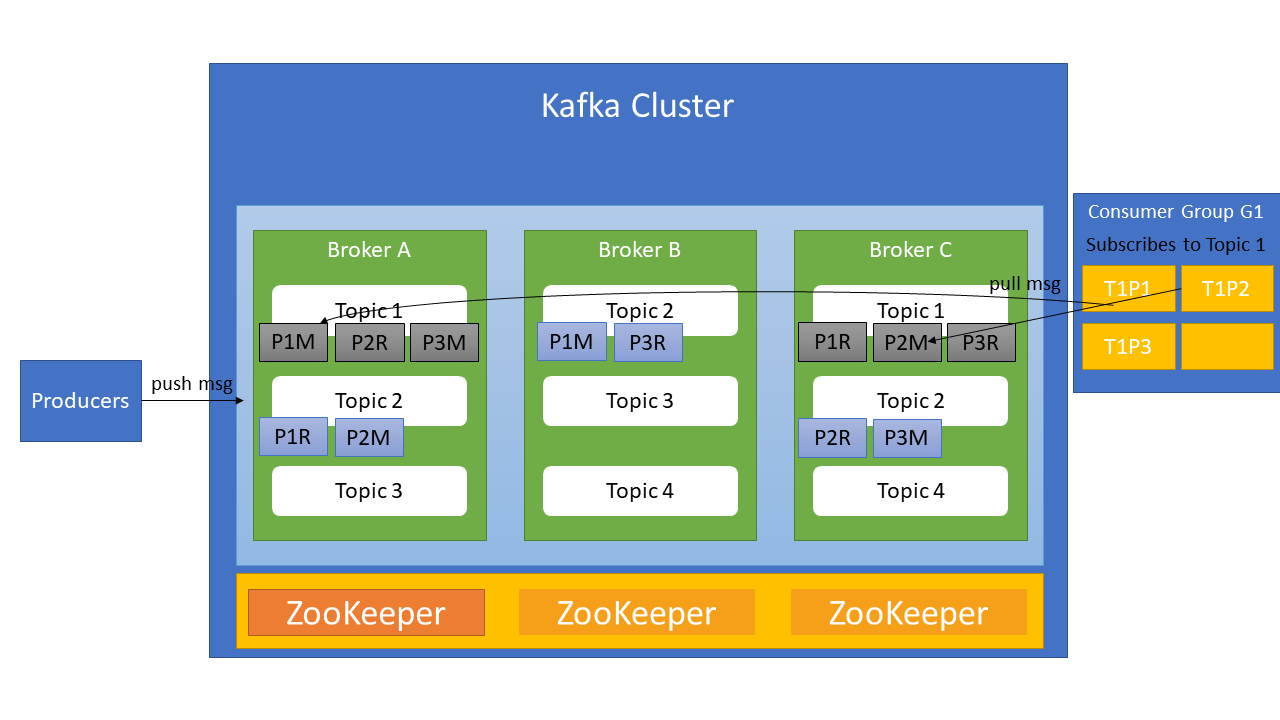
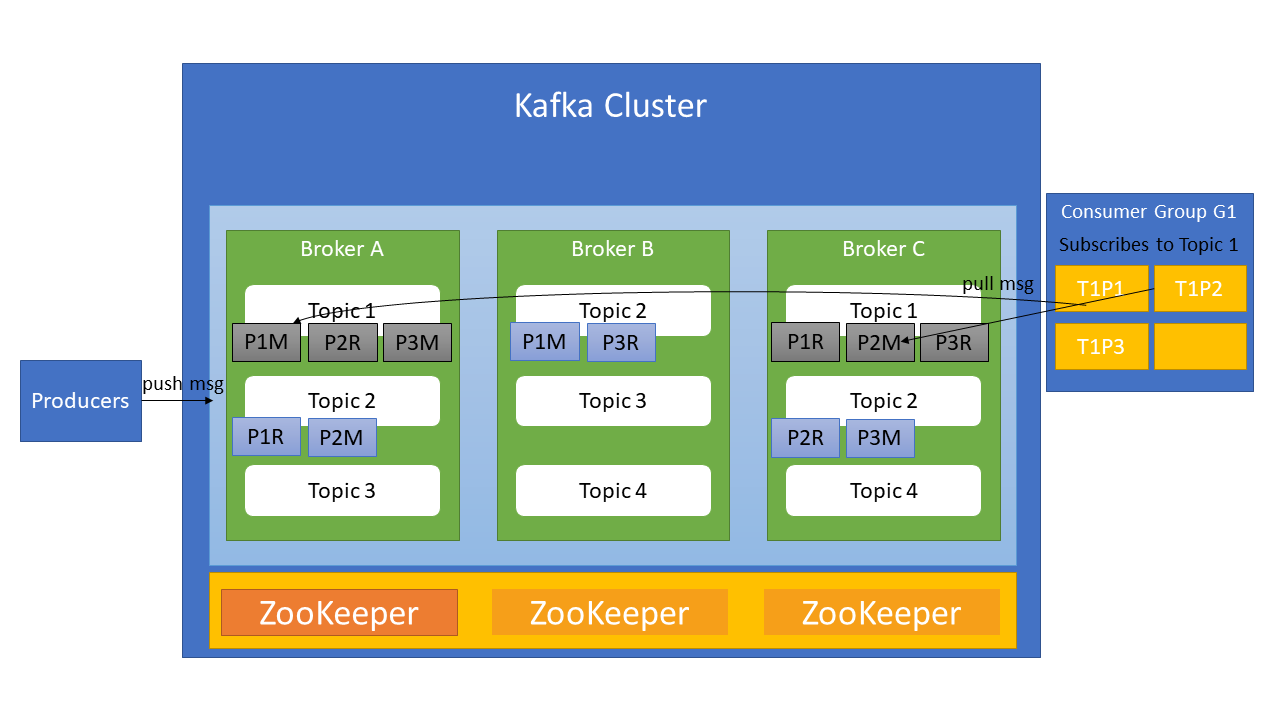
feature: update userdocs osb-kafka.md and kafka-cluster.png

diff --git a/service-docs/pages/osb-kafka.md b/service-docs/pages/osb-kafka.md
@@ -21,7 +21,7 @@
     - [Service Instance Zookeper Schema](#service-instance-zookeper-schema)
     - [Service Binding Settings Schema](#service-binding-settings-schema)
       - [topic_acls object](#topic_acls-object)
-      - [group_acls](#group_acls)
+      - [group_acls object](#group_acls-object)
       - [cluster_acls object](#cluster_acls-object)
   - [FAQ](#faq)
     - [OSB-Kafka crashed](#osb-kafka-crashed)
@@ -74,8 +74,6 @@ The following image shows, how a Kafka Cluster is managed:
 ![Kafka-Cluster](../assets/kafka-cluster.png)
 
 For the sake of simplicity, only topic 1 and 2 are looked at. Each topic consists of 3 partitions with 1 replication each (6 partitions per topic in total). Since the partitions of topic 1 (grey, "M"=master, "R"=replica) are spread across 2 brokers (broker A and broker B), each one stores 3 partitions. The partitions of topic 2 (light blue) are spread among 3 brokers, therefore each one stores 2 partitions. Master and replica partitions are distributed as evenly as possible. The consumer group G1 consists of 4 consumers. In case of no further configuration, each consumer of the group reads from a different partition, which means that the fourth consumer does not access any partition.
-
-?warum hatten manche topics roten rand? weg
 
 Further information about Kafka Clusters can be found [here](https://kafka.apache.org/documentation/).
 
@@ -287,22 +285,22 @@ The following settings are defined in the schema in service_plan.schemas.service
 
 | Parameter | Type | Default Value | Description |
 | - | - | - | - |
-| autopurge_purge_interval | number | 24(stunden?) | Autopurge interval. If a Zookeper object is given, this property is **required**. |
-| autopurge_snap_retain_count | number | 3 | Autopurge snap(shot?) retain count. If a Zookeper object is given, this property is **required**. |
-| cnx_timeout | number | 5(stunden?) | CNX timeout. If a Zookeper object is given, this property is **required**. |
-| election_algorim | number | 3 | Election algorithm (to avoid confusion: there is a typo in the property name)(wofür steht welche nummer?). If a Zookeper object is given, this property is **required**. |
-| force_sync | string | "yes" | Force synchronization. Valid values are "yes" and "no" (warum kein enum im schema? hinzgefügt). If a Zookeper object is given, this property is **required**. |
-| global_outstanding_limit | number | 1000 | Global outstanding limit (weiß der nutzer was damit gemeint ist? ich nicht). If a Zookeper object is given, this property is **required**. |
+| autopurge_purge_interval | number | 24 | Autopurge interval in hours. If a Zookeper object is given, this property is **required**. |
+| autopurge_snap_retain_count | number | 3 | Number of most recent snapshots to retain. If a Zookeper object is given, this property is **required**. |
+| cnx_timeout | number | 5 | Timeout in seconds for opening connections for leader election notifications. Only applicable if election_algorim = 3. If a Zookeper object is given, this property is **required**. |
+| election_algorim | number | 3 | Election implementation to use. A value of "0" corresponds to the original UDP-based version, "1" corresponds to the non-authenticated UDP-based version of fast leader election, "2" corresponds to the authenticated UDP-based version of fast leader election, and "3" corresponds to TCP-based version of fast leader election. **The implementations of leader election 0, 1 and 2 are deprecated and will be removed in future Zookeeper releases.**(jsonschema enum?). If a Zookeper object is given, this property is **required**. |
+| force_sync | string | "yes" | Force synchronization. Valid values are "yes" and "no" (checkbox?). If a Zookeper object is given, this property is **required**. |
+| global_outstanding_limit | number | 1000 | Limit of outstanding requests to the system. If a Zookeper object is given, this property is **required**. |
 | init_limit | number | 5 | Connection retries. If a Zookeper object is given, this property is **required**. |
-| leader_serves | string | "yes" | Client connections to leader. Valid values are "yes" and "no" (?enum ergänzt). If a Zookeper object is given, this property is **required**. |
+| leader_serves | string | "yes" | Client connections to leader. Valid values are "yes" and "no" (?checkbox). If a Zookeper object is given, this property is **required**. |
 | max_client_connections | number | 60 | Maximum number of client connections. If a Zookeper object is given, this property is **required**. |
 | max_session_timeout | number | 40000 | Maximum session timeout in ms. If a Zookeper object is given, this property is **required**. |
 | min_session_timeout | number | 4000 | Minimum session timeout in ms. If a Zookeper object is given, this property is **required**. |
-| pre_allocation_size | number | 65536 | Pre-allocation size for transaction log blocks (KB). If a Zookeper object is given, this property is **required**. |
-| snap_count | number | 100000 | Snap(shot?) count. If a Zookeper object is given, this property is **required**. |
+| pre_allocation_size | number | 65536 | Pre-allocation size for transaction log blocks in KB. If a Zookeper object is given, this property is **required**. |
+| snap_count | number | 100000 | Snapshot count. If a Zookeper object is given, this property is **required**. |
 | sync_enabled | boolean | true | Synchronization enabled. If a Zookeper object is given, this property is **required**. |
 | sync_limit | number | 2 | Synchronization limit. If a Zookeper object is given, this property is **required**. |
-| tick_time | number | 2000 | Single tick time (in ms?). If a Zookeper object is given, this property is **required**. |
+| tick_time | number | 2000 | Single tick time in ms. If a Zookeper object is given, this property is **required**. |
 | warning_threshold_ms | number | 1000 | Warning threshold in ms. If a Zookeper object is given, this property is **required**.  | 
 
 ### Service Binding Settings Schema
@@ -343,33 +341,34 @@ An extended example of the parameters for a create request for a service binding
 | Parameter | Type | Default Value | Description |
 | - | - | - | - |
 | service_key_name | string | - | The name of the service binding. This parameter is **required**. |
-| topic_acls | array of [topic_acls objects](#topic_acls-object) | - | ? |
-| group_acls | array of [group_acls objects](#group_acls-object) | - | ? |
-| cluster_acls | array of [cluster_acls objects](#cluster_acls-object) | - | ? |
+| topic_acls | array of [topic_acls objects](#topic_acls-object) | - | ACLS (Access Control Lists) for topics. |
+| group_acls | array of [group_acls objects](#group_acls-object) | - | ACLS for groups |
+| cluster_acls | array of [cluster_acls objects](#cluster_acls-object) | - | ACLS for clusters |
 
 #### topic_acls object
 
-blabla?
+This object contains the rights for a topic access control list. More detailed information can be found in the [Kafka docs](https://kafka.apache.org/28/documentation.html#security_authz).
 
 | Parameter | Type | Default Value | Description |
 | - | - | - | - |
-| topic | string | * | The name of the topic to be created?. ?hier regex? If a topic_acls object is given, this parameter is **required**. |
-| rights | array of string | - | Sets the rights of the topic (?). Valid values are "All", "Alter", "AlterConfigs", "Create", "Delete", "Describe", "DescribeConfigs", "Read" and "Write". If a topic_acls object is given, this parameter is **required**. |
+| topic | string | * | The name of the topic. Giving a regex is possible - this will select multiple topics. If a topic_acls object is given, this parameter is **required**. |
+| rights | array of string | - | Sets the rights of a topic. Valid values are "All", "Alter", "AlterConfigs", "Create", "Delete", "Describe", "DescribeConfigs", "Read" and "Write". If a topic_acls object is given, this parameter is **required**. |
 
-#### group_acls 
+#### group_acls object
 
 | Parameter | Type | Default Value | Description |
 | - | - | - | - |
-| group | string | * | Name of a (consumer?producer? egal?) group?. If a group_acls object is given, this parameter is **required**. |
+| group | string | * | Name of a (consumer?producer? egal?) group. If a group_acls object is given, this parameter is **required**. |
 | rights | array of string | "All" | Sets the rights of the group. Valid values are "All", "Delete", "Describe" and "Read". If a group_acls object is given, this parameter is **required**. |
 
 #### cluster_acls object
 
 Warum ist cluster_acls als array of objects definiert, wenn "maxItems: 1"? Macht das array da überhaupt Sinn?
+The cluster_acls object sets the access rights within the cluster?
 
 | Parameter | Type | Default Value | Description |
 | - | - | - | - |
-| rights | array of string | "All" | Sets the rights of the cluster?. Valid values are "All", "Alter", "AlterConfigs", "ClusterAction", "Create", "Describe", "DescribeConfigs", "IdempotentWrite". If a cluster_acls object is given, this parameter is **required**. |
+| rights | array of string | "All" | Sets the rights of the cluster. Valid values are "All", "Alter", "AlterConfigs", "ClusterAction", "Create", "Describe", "DescribeConfigs", "IdempotentWrite". If a cluster_acls object is given, this parameter is **required**. |
 
 ## FAQ
 
@@ -390,9 +389,9 @@ The following causes can lead to a failure: ?passt das noch?
 Access to the VM via [Bosh CLI](https://bosh.io/docs/cli-v2/) is required for debugging. The logs of Kafka can be acquired within the VM under:
 
 ```
-/var/vcap/sys/log/redis/?ALL?
+/var/vcap/sys/log/redis/ALL?
 ```
-??hiweis auf redis-cli? unter /var/vcap/packages/redis/bin
+?hiweis auf redis-cli unter /var/vcap/packages/redis/bin
 
 If the error **cannot be fixed**, a new instance has to be created and restored by using a backup.
 
